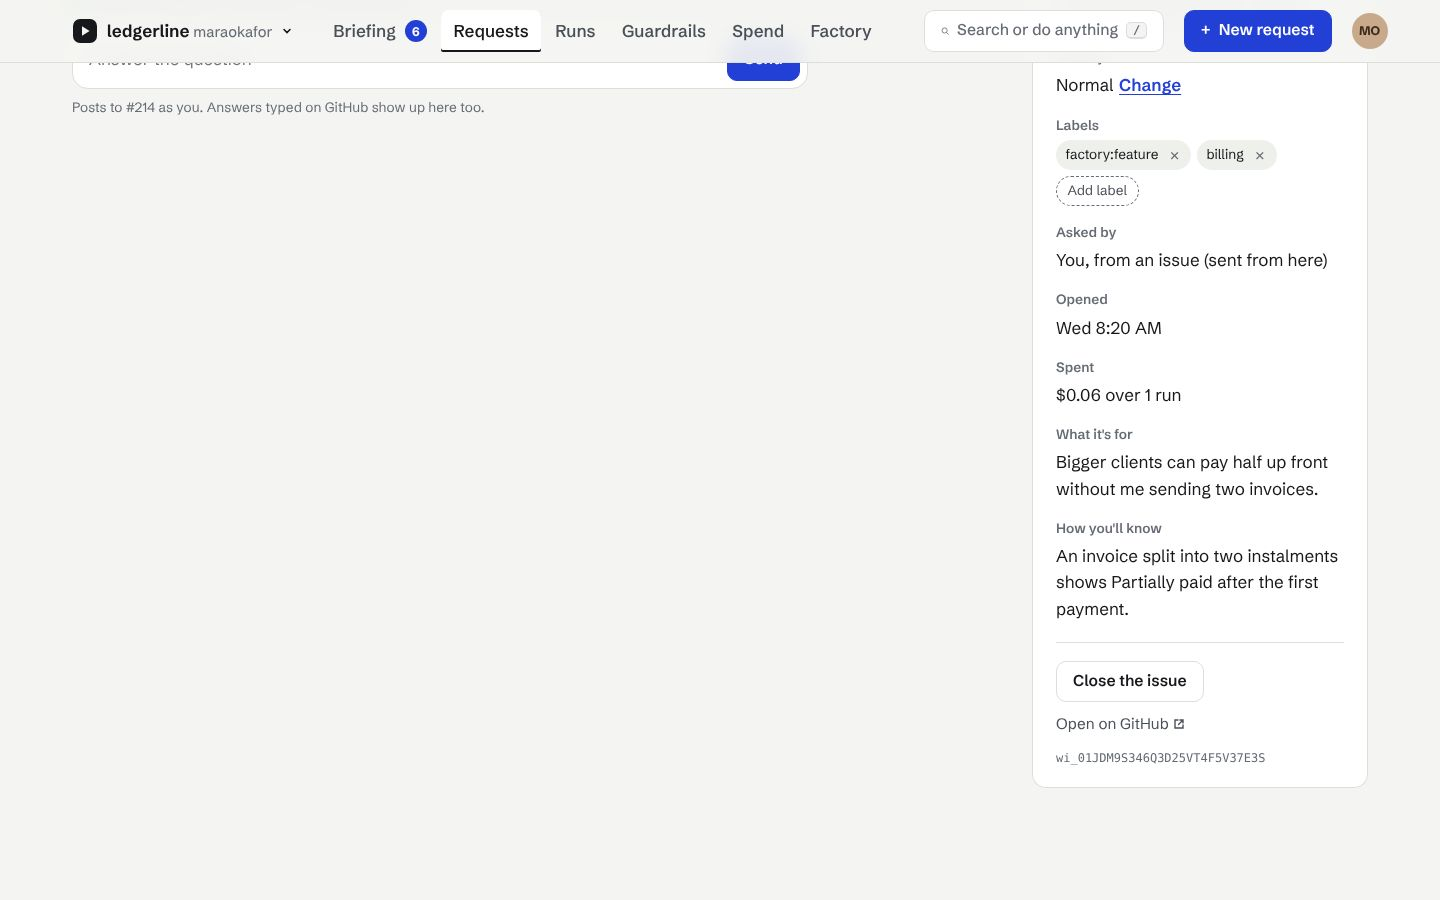
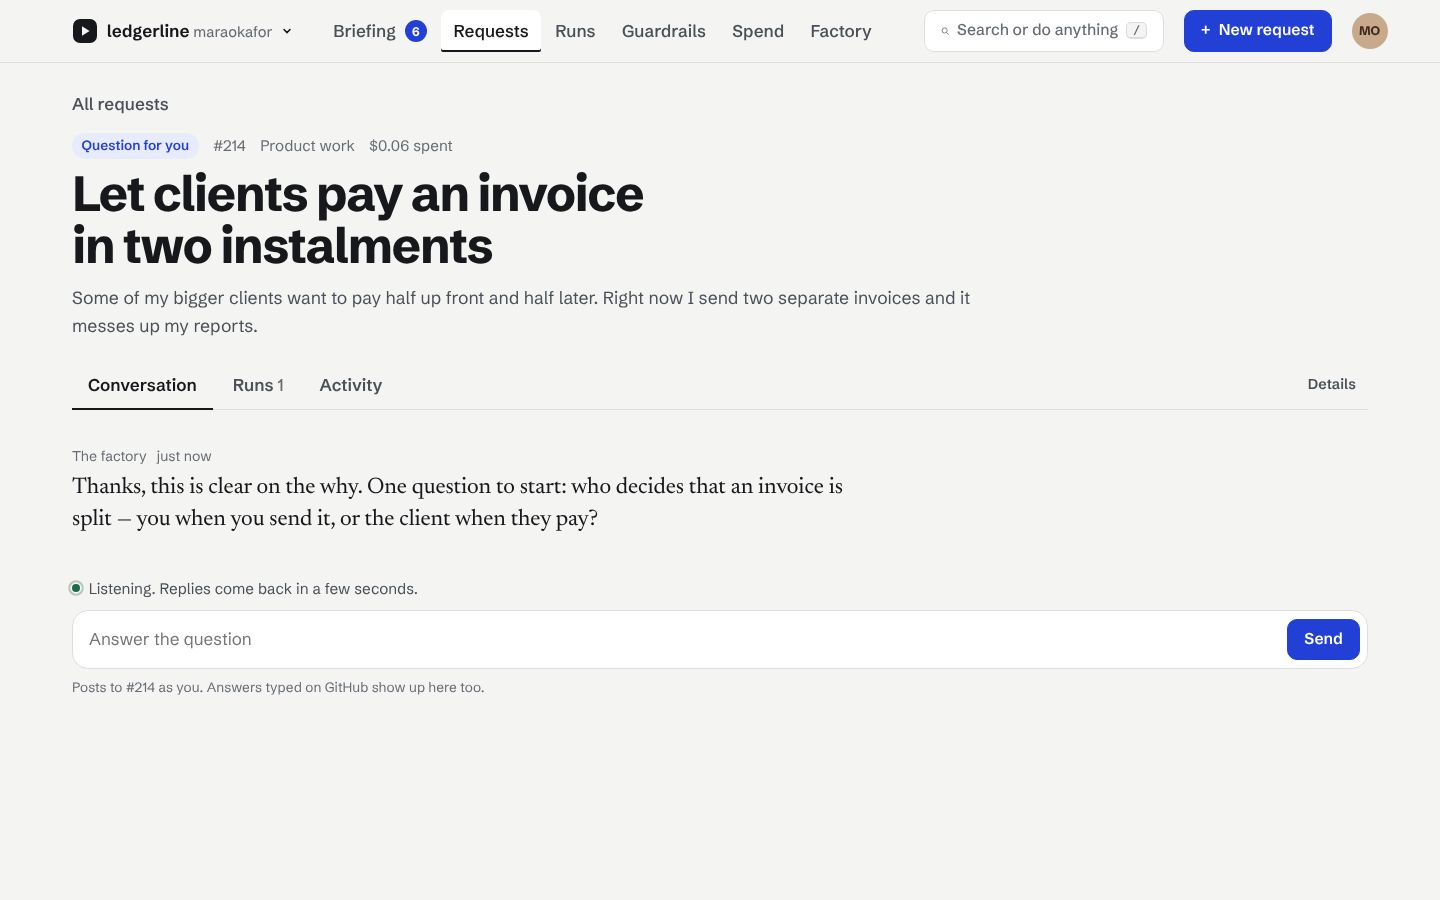
Give the conversation the whole page in the Briefing sketch
In conversation the chat uses the same page width as every other page: the
factory's turns on the left, the person's on the right, the reply box across
the page. The request's details move into a drawer opened from the pinned tab
row. The tab row no longer shows a scrollbar, and the first question fits the
screen without scrolling.

Claude-Session: https://claude.ai/code/session_011G4d8g8nXvTWZ4e36vgn1J

diff --git a/design/sketch/a-briefing/app.js b/design/sketch/a-briefing/app.js
@@ -36,6 +36,7 @@
     theme: "system",
     mode: "busy",          // busy | quiet | empty
     prefill: "",
+    drawer: null,
   };
   const key = (it) => (it.issue ? String(it.issue) : it.id.slice(-5).toLowerCase());
   const itemBy = (k) => S.items.find((i) => key(i) === String(k));
@@ -450,11 +451,20 @@
     tabs.push(["activity", "Activity"]);
     if (!tab) tab = it.status === "needs_info" ? "talk" : it.pr ? "pr" : ["running", "escalated"].includes(it.status) ? "runs" : "activity";
     const pane = tab === "talk" ? talkPane(it) : tab === "pr" ? prPane(it) : tab === "runs" ? runsPane(it) : activityPane(it);
+    const tabRow = `<div class="tabs" role="tablist" aria-label="Request">${tabs.map(([id, label]) => `<a role="tab" href="#r-${key(it)}-${id}" data-go="r-${key(it)}-${id}" aria-selected="${tab === id}">${label}</a>`).join("")}</div>`;
+    /* In conversation the chat is the page: one centred column, details in a drawer. */
+    if (tab === "talk") return `<main class="wrap talking">
+      <a class="back" href="#requests" data-go="requests">All requests</a>
+      <header class="req-head"><div class="where">${badge(it.status)}<span>${it.issue ? "#" + it.issue : "no issue yet"}</span><span>${PIPE[it.pipeline]}</span><span>${usd(it.cost)} spent</span></div>
+        <h1>${esc(it.title)}</h1>${it.issue === 214 ? `<p class="asked">${esc(B.request)}</p>` : ""}</header>
+      <div class="tabs-row">${tabRow}<button class="btn quiet small" type="button" data-act="details" data-k="${key(it)}">Details</button></div>
+      <div class="req-main" data-tab="talk">${callout(it)}${pane}</div>
+    </main>`;
     return `<main class="wrap">
       <a class="back" href="#requests" data-go="requests">All requests</a>
       <header class="req-head"><div class="where">${badge(it.status)}<span>${it.issue ? "#" + it.issue : "no issue yet"}</span><span>${PIPE[it.pipeline]}</span>${it.pr ? `<span>PR #${it.pr}</span>` : ""}</div>
         <h1>${esc(it.title)}</h1>${it.issue === 214 ? `<p class="asked">${esc(B.request)}</p>` : ""}</header>
-      <div class="tabs" role="tablist" aria-label="Request">${tabs.map(([id, label]) => `<a role="tab" href="#r-${key(it)}-${id}" data-go="r-${key(it)}-${id}" aria-selected="${tab === id}">${label}</a>`).join("")}</div>
+      ${tabRow}
       <div class="req-cols"><details class="m-details"><summary>Details: ${STATUS[it.status]}, ${PIPE[it.pipeline].toLowerCase()}, ${usd(it.cost)} spent</summary>${details(it)}</details><div class="req-main" data-tab="${tab}">${callout(it)}${pane}</div>${details(it)}</div>
     </main>`;
   }
@@ -687,6 +697,8 @@ exit: ok`;
     current = route;
     root.innerHTML = `<div data-screen="${route}">${page(route)}</div>`;
     wire(root);
+    const drawer = layer.querySelector(".dialog.drawer");
+    if (drawer && S.drawer) drawer.innerHTML = drawerHtml();
     if (keepScroll) window.scrollTo(0, y);
     else if (route.startsWith("factory-")) { const el = document.getElementById("f-" + route.slice(8)); if (el) el.scrollIntoView(); }
     else if (route === "r-214" || /^r-214-(talk|first|live|cold|understood)$/.test(route)) requestAnimationFrame(() => window.scrollTo(0, document.body.scrollHeight));
@@ -733,7 +745,8 @@ exit: ok`;
     const first = layer.querySelector("[data-autofocus], input:not([type=radio]), textarea, select, button");
     if (first) first.focus();
   }
-  function closeDialog() { if (!layer.innerHTML) return; layer.innerHTML = ""; if (lastFocus && lastFocus.isConnected) lastFocus.focus(); }
+  function closeDialog() { if (!layer.innerHTML) return; layer.innerHTML = ""; S.drawer = null; if (lastFocus && lastFocus.isConnected) lastFocus.focus(); }
+  const drawerHtml = () => `<div class="drawer-head"><h2>Details</h2><button class="btn quiet small" type="button" data-close>Close</button></div>${details(itemBy(S.drawer))}`;
   function toast(text, opts = {}) {
     const t = document.createElement("div");
     t.className = "toast";
@@ -810,6 +823,10 @@ exit: ok`;
   const issueOf = (el) => byIssue(+el.dataset.n);
   const actions = {
     palette,
+    details: (el) => {
+      S.drawer = el.dataset.k;
+      openDialog(drawerHtml(), { cls: "drawer", label: "Request details" });
+    },
     "new-request": (el) => {
       openDialog(`<h2>New request</h2>${requestForm({ kind: el.dataset.kind })}`, { cls: "sheet", label: "New request" });
       const t = layer.querySelector("#nr-title");

diff --git a/design/sketch/a-briefing/style.css b/design/sketch/a-briefing/style.css
@@ -256,11 +256,34 @@ a.tr:hover, .tr:has(a:hover) { background: color-mix(in oklab, var(--sheet) 80%,
 .req-head .where { color: var(--ink-3); display: flex; gap: .9rem; flex-wrap: wrap; align-items: center; font-size: .95rem; }
 .req-head h1 { font-size: clamp(2rem, 4vw, 3.1rem); line-height: 1.05; letter-spacing: -0.03em; margin: .6rem 0 0; max-width: 26ch; font-weight: 740; text-wrap: balance; }
 .req-head .asked { color: var(--ink-2); margin: .8rem 0 0; max-width: var(--measure); font-size: 1.1rem; }
-.tabs { display: flex; gap: .25rem; border-bottom: 1px solid var(--rule); margin-bottom: 2rem; overflow-x: auto; }
-.tabs a { text-decoration: none; padding: .75rem 1rem; color: var(--ink-2); font-weight: 600; border-bottom: 2px solid transparent; margin-bottom: -1px; white-space: nowrap; }
+.tabs { display: flex; gap: .25rem; box-shadow: inset 0 -1px 0 var(--rule); margin-bottom: 2rem; overflow-x: auto; overflow-y: hidden; scrollbar-width: none; }
+.tabs::-webkit-scrollbar, .nav::-webkit-scrollbar { display: none; }
+.tabs a { text-decoration: none; padding: .75rem 1rem; color: var(--ink-2); font-weight: 600; white-space: nowrap; }
 .tabs a span { color: var(--ink-3); font-weight: 500; }
 .tabs a:hover { color: var(--ink); }
-.tabs a[aria-selected="true"] { color: var(--ink); border-bottom-color: var(--ink); }
+.tabs a[aria-selected="true"] { color: var(--ink); box-shadow: inset 0 -2px 0 var(--ink); }
+
+/* Conversation: the chat is the page, at the same width as every other page.
+   The factory speaks on the left, the person answers on the right. */
+.wrap.talking { padding-bottom: 0; }
+.talking .req-head { padding-top: 1rem; }
+.talking .req-head .asked { max-width: 60rem; }
+.talking .talk-col, .talking .nowhere { max-width: none; }
+.talking .thread { gap: 1.75rem; }
+.talking .turn.f { max-width: 50rem; }
+.talking .turn.f .text { max-width: none; }
+.talking .turn.p { align-self: flex-end; max-width: 38rem; border-left: 0; padding: .8rem 1.1rem; background: var(--sheet); border-radius: 16px 16px 4px 16px; box-shadow: inset 0 0 0 1px var(--rule); }
+.talking .turn.p .who { justify-content: flex-end; }
+.talking .turn.p .text { max-width: none; }
+.talking .played { max-width: 56rem; }
+.talking .compose { max-width: none; }
+.talking .dock { padding-bottom: 1.5rem; }
+.tabs-row { position: sticky; top: 3.55rem; z-index: 5; display: flex; align-items: center; justify-content: space-between; gap: 1rem; background: var(--paper); box-shadow: inset 0 -1px 0 var(--rule); margin-bottom: 1.75rem; }
+.tabs-row .tabs { margin: 0; box-shadow: none; flex: 1; }
+.dialog.drawer { top: 0; bottom: 0; left: auto; right: 0; translate: none; width: min(24rem, 100vw); max-height: none; border-radius: 20px 0 0 20px; padding: 1.25rem 1.25rem 2rem; }
+.drawer-head { display: flex; justify-content: space-between; align-items: center; margin-bottom: .5rem; }
+.drawer-head h2 { margin: 0; }
+.dialog.drawer .details { position: static; box-shadow: none; padding: 0; background: none; }
 .req-cols { display: grid; grid-template-columns: minmax(0, 1fr) var(--rail); gap: 3.5rem; align-items: start; }
 .req-main { min-width: 0; }
 .m-details { display: none; }
@@ -532,7 +555,7 @@ details.token summary { cursor: pointer; width: fit-content; }
   .subnav { display: flex; flex-wrap: wrap; }
   .done-list { grid-template-columns: repeat(3, minmax(0, 1fr)); }
   .top-in { flex-wrap: wrap; gap: .5rem 1rem; }
-  .nav { order: 5; width: 100%; overflow-x: auto; margin: 0 -.5rem; padding-bottom: .1rem; }
+  .nav { order: 5; width: 100%; overflow-x: auto; overflow-y: hidden; scrollbar-width: none; margin: 0 -.5rem; padding-bottom: .1rem; }
   .top .new-label, .btn.go .lbl { display: none; }
 }
 @media (max-width: 760px) {
@@ -584,6 +607,10 @@ details.token summary { cursor: pointer; width: fit-content; }
   .dialog { top: auto; bottom: 0; translate: -50% 0; border-radius: 20px 20px 0 0; max-height: 92vh; width: 100vw; }
   .dialog.pal { top: 0; bottom: auto; border-radius: 0 0 20px 20px; }
   .toasts { bottom: 1rem; }
+  .tabs-row { top: 6.3rem; }
+  .tabs a { padding: .75rem .65rem; }
+  .talking .turn.p { max-width: 85%; }
+  .dialog.drawer { top: auto; bottom: 0; left: 50%; translate: -50% 0; width: 100vw; max-height: 85vh; border-radius: 20px 20px 0 0; }
 }
 @media (prefers-reduced-motion: reduce) {
   .pulse::after, .typing i, .spinner { animation: none; }
